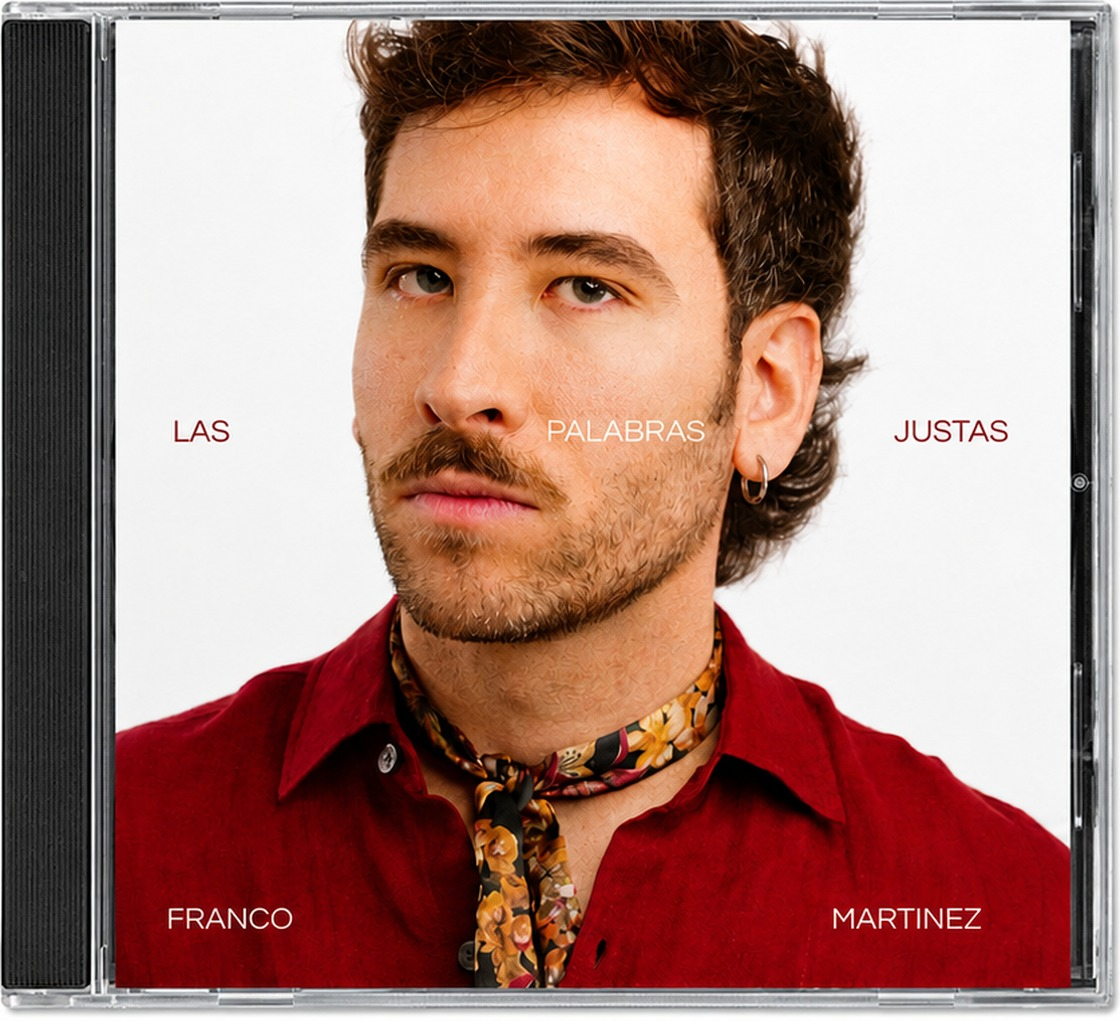
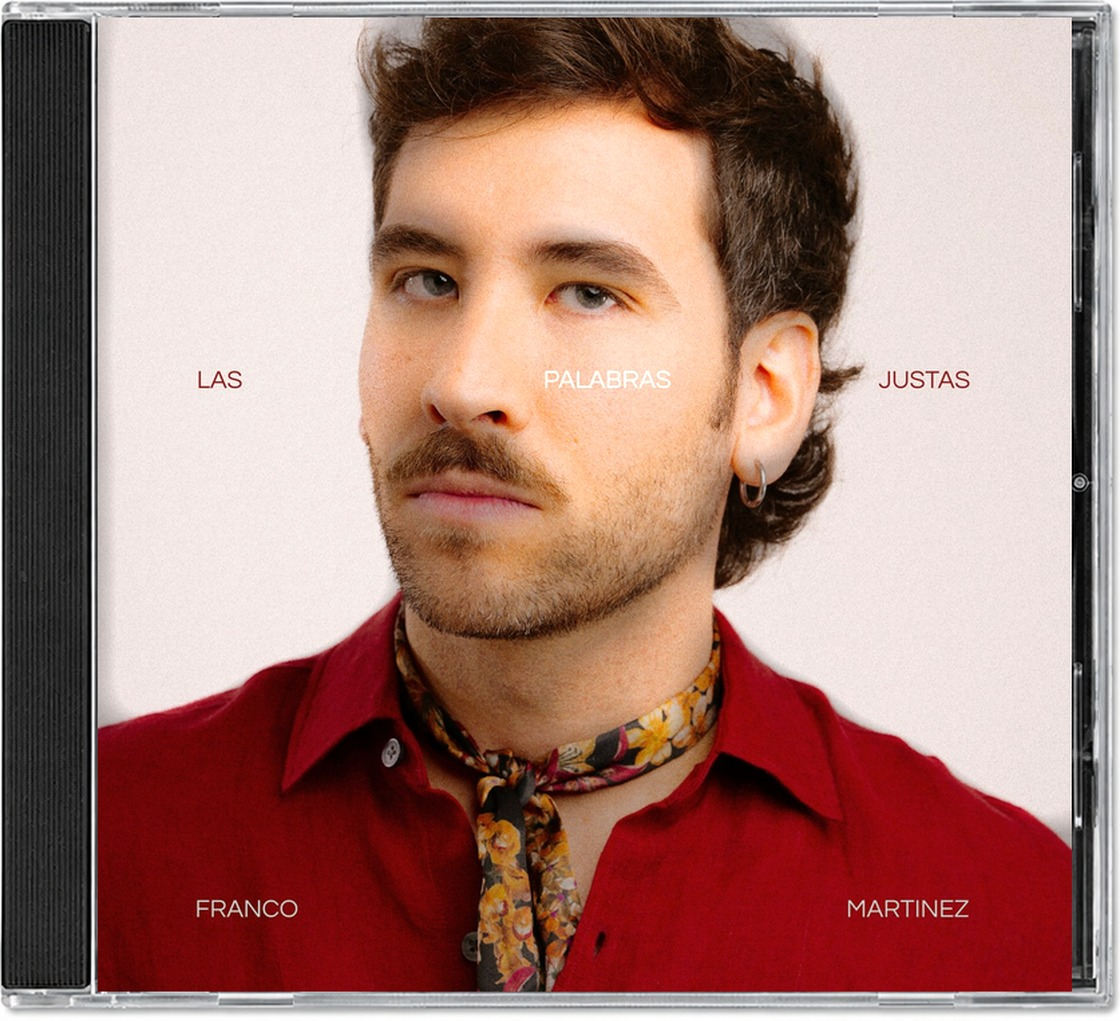
CD mobile responsive resolution

diff --git a/app.js b/app.js
@@ -253,6 +253,7 @@ const sections = [
       { title: 'Las Palabras Justas', meta: 'Franco Martínez', variant: 'editorial',
         desc: 'Desarrollo de la identidad visual del álbum a partir de una serie fotográfica de retratos y detalles, trabajando una estética de colores intensos y una propuesta tipográfica integrada a la imagen. La propuesta toma como punto de partida la relación entre la mirada y las palabras, en diálogo con el concepto de «Los ojos tienen las palabras justas».',
         cover: 'fotos/tapa-de-disco/las-palabras-justas-frente.jpg',
+        cta: 'Ver diseño completo',
         // Al tocar la tapa se abre la caja de CD en 3D, que se da vuelta.
         // Cajas fotográficas (del mockup): la caja dibujada por CSS no se veía real.
         disc: { frente: 'fotos/tapa-de-disco/caja-frente.jpg',
@@ -432,7 +433,9 @@ function workInfoHTML(def) {
   // Los videos no llevan link: la miniatura con el play alcanza. Un trabajo sin
   // material cargado todavía tampoco: no hay galería que abrir.
   const sinGaleria = isVideoWork(w) || (!w.categories && !w.items.length);
-  const cta = sinGaleria ? '' : `<span class="work-cta">Ver galería &#8594;</span>`;
+  // `cta` propio: p. ej. la tapa de disco abre la caja, no una galería.
+  const textoCta = w.cta || (sinGaleria ? '' : 'Ver galería');
+  const cta = textoCta ? `<span class="work-cta">${textoCta} &#8594;</span>` : '';
   // Link al sitio del cliente, si el trabajo lo tiene (p. ej. Distrito BAFA).
   const ext = w.link
     ? `<a class="work-extlink" href="${w.link.href}" target="_blank" rel="noopener">${w.link.label} &#8599;</a>`
@@ -511,7 +514,7 @@ function workHTML(def) {
 
   if (w.variant === 'editorial') {
     return `
-      <div class="pg pg--work v-editorial${vid}${w.numMini ? ' num-mini' : ''}" style="--accent:${acc}">
+      <div class="pg pg--work v-editorial${vid}${w.numMini ? ' num-mini' : ''}${w.disc ? ' pg--disco' : ''}" style="--accent:${acc}">
         <span class="work-no--ghost display">${w.no}</span>
         <div class="work-frame"><div class="work-img lazy-bg" ${workCoverAttrs(w)}>${play}</div></div>
         <div class="work-col">${workInfoHTML(def)}</div>
@@ -656,7 +659,17 @@ function attachPageHandlers(front, def) {
     // abren el despliegue — no cualquier punto de la página.
     const abrir = def.work.disc ? () => openDisc(def.work) : () => openWork(def.work);
     front.querySelectorAll('.work-bg, .work-img, .collage__cell, .media-play, .work-cta').forEach(el => {
-      el.addEventListener('click', (e) => { e.stopPropagation(); abrir(); });
+      el.addEventListener('click', (e) => {
+        e.stopPropagation();
+        // Tapa de disco en el celu: la página muestra el diseño frontal grande y
+        // el texto está plegado; tocar la imagen lo despliega. El CTA abre la caja.
+        const enCelu = matchMedia('(max-width: 768px) and (orientation: portrait)').matches;
+        if (def.work.disc && enCelu && !el.classList.contains('work-cta')) {
+          front.querySelector('.pg--disco').classList.toggle('muestra-desc');
+          return;
+        }
+        abrir();
+      });
     });
   }
 }

diff --git a/style.css b/style.css
@@ -1553,6 +1553,20 @@ body.cv-abierto .topnav { opacity: 0; pointer-events: none; }
      hace que el marco ocupe la fila y la imagen lo llene. */
   .v-editorial .work-frame { height: auto; align-self: stretch; display: flex; }
   .v-editorial .work-img { min-height: 0; }
+
+  /* Tapa de disco en el celu: manda el diseño frontal. La imagen se lleva la
+     mayor parte de la página y la descripción queda plegada hasta que se toca
+     (así no hay que achicar la tapa para que entre el texto). */
+  .v-editorial.pg--disco { grid-template-rows: 1.9fr 1fr; }
+  .pg--disco .work-frame { padding: 0; border: none; }
+  .pg--disco .work-img { background-size: contain; background-repeat: no-repeat; background-position: center; }
+  .pg--disco .work-desc {
+    max-height: 0; overflow: hidden; opacity: 0; margin-top: 0;
+    transition: max-height 0.4s ease, opacity 0.3s ease, margin-top 0.3s ease;
+  }
+  .pg--disco.muestra-desc .work-desc {
+    max-height: 40vh; opacity: 1; margin-top: 12px;
+  }
   .v-collage .collage { grid-template-rows: repeat(2, 1fr); }
   .v-collage .collage__cell.c0 { grid-row: span 1; }
   .v-collage .collage__cell.c4 { display: none; }
